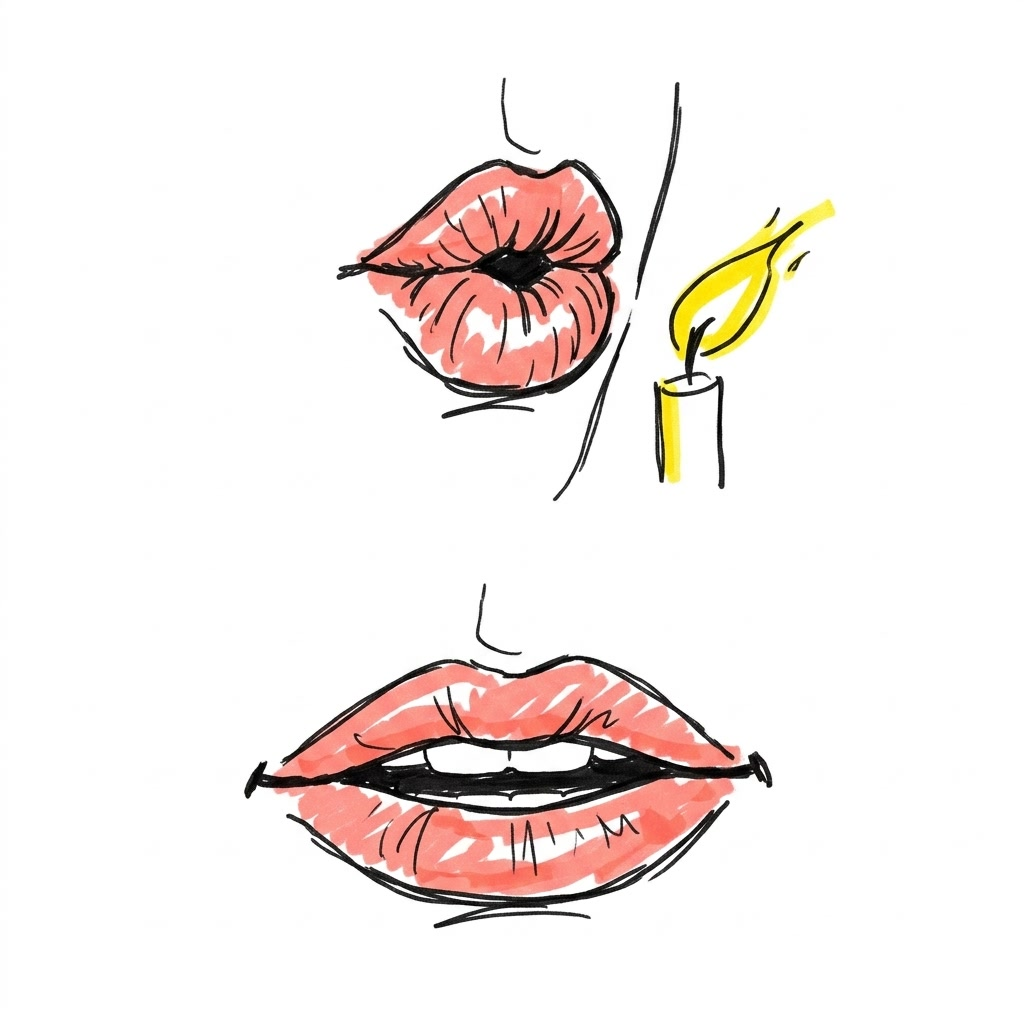
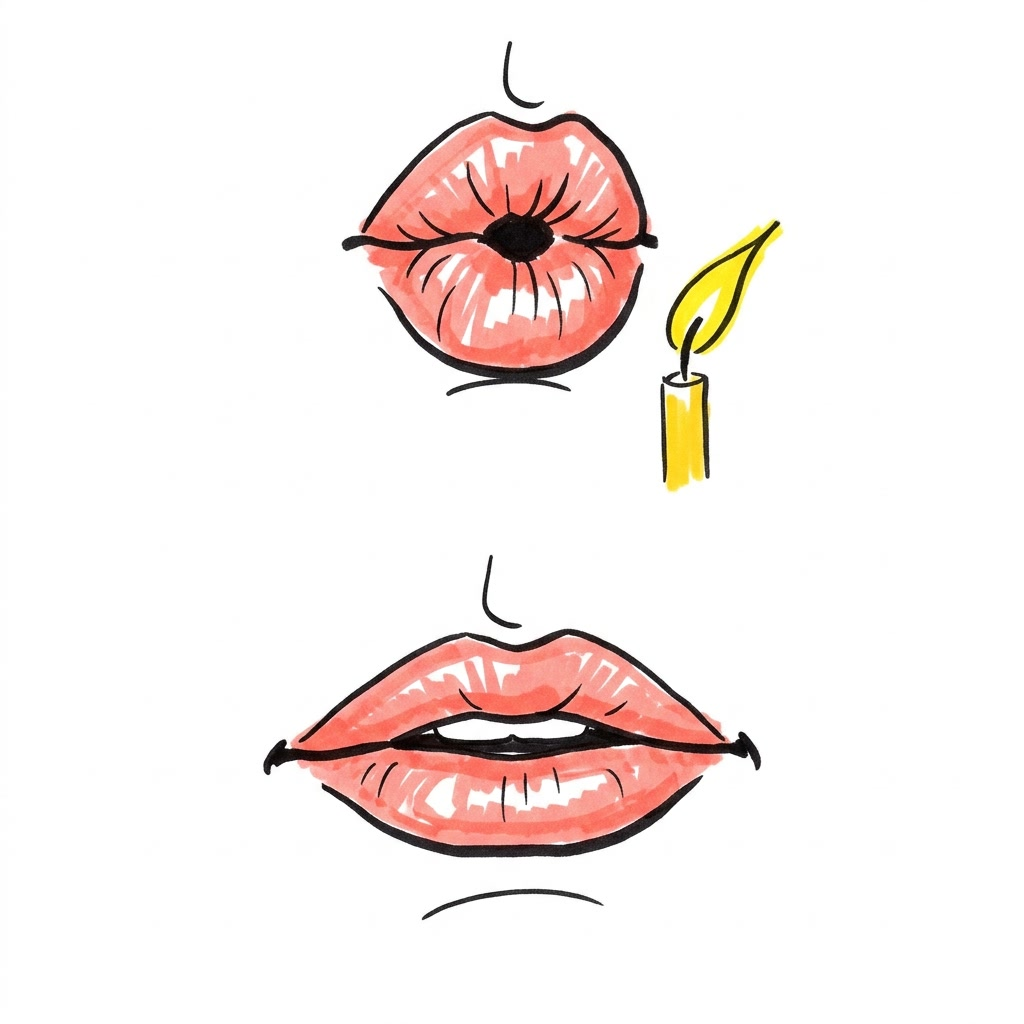
feat(shorts): add EP25 lips v3 and EP25/26 shorts thumbnails
Lips: cheek line gone, lower mouth narrower than before (about 1.5x the
top mouth, asked 1.3x) and clearly different from the rounded top, so it
is used. Thumbnails checked for Korean text (풀 zoomed to confirm the
vowel stem), empty bottom quarter and clean corners; placed as
thumbnail.jpg in each shorts package (no status.json).

diff --git a/knowledge/now.md b/knowledge/now.md
@@ -6,8 +6,7 @@
 
 급한 순서로 적는다. 새 대화의 시작 브리핑에 그대로 나온다. 끝난 항목은 바로 지우고, 새 일이 생기면 여기에 적는다.
 
-- [ ] **사용자 (각 쇼츠 공개 전)**: 쇼츠 썸네일을 Gemini로 만든다(9:16). EP24는 2026-11-08에 만들어 스튜디오에도 올렸다. 남은 것은 EP25·26 2장. 프롬프트는 각 쇼츠 폴더의 `prompts/thumbnail-prompts.md`(추천 1안, 다른 안을 고르면 Claude가 문구를 바꾼다). 다운로드 폴더에 `ep24_shorts_thumbnail.jpg`, `ep25_…`, `ep26_…`로 넣으면 Claude가 확인해 각 쇼츠 패키지의 `thumbnail.jpg`로 넣는다.
-- [ ] **Claude**: EP25·26 쇼츠 화면과 자막을 만들고 검수를 요청한다. 그 전에 사용자가 EP25 입술 그림 `lips_round_relaxed` 1장을 고친 프롬프트로 다시 만든다. EP25 나레이션은 13.30~13.70초와 18.39~18.67초에 대본에 없는 소리가 있어 잘라 낸다. EP25의 fool·full은 여성 음성이다. EP26 그림 두 장은 가운데 선(512px)에 획이 걸쳐 있어 위아래로 자를 때 처리한다.
+- [ ] **Claude**: EP25·26 쇼츠 화면과 자막을 만들고 검수를 요청한다. 그림은 모두 들어왔다(EP25 입술은 2026-11-08 3차본). 쇼츠 썸네일은 각 쇼츠 패키지의 `thumbnail.jpg`에 있으니 스튜디오에서 올릴 때 함께 올린다. EP25 나레이션은 13.30~13.70초와 18.39~18.67초에 대본에 없는 소리가 있어 잘라 낸다. EP25의 fool·full은 여성 음성이다. EP26 그림 두 장은 가운데 선(512px)에 획이 걸쳐 있어 위아래로 자를 때 처리한다.
 - [ ] **사용자 결정**: 11/6에 시작한 프로그램 점검의 "자기 질문과 현실적 해결책" 보고서가 아직 필요한지 정한다. 다른 PC에서 점검 기록과 외부 요청 차단 등이 커밋된 것은 확인했지만, 보고서 자체를 만들었는지는 확인하지 못했다.
 - [ ] **사용자 (11/9 공개 후)**: EP24 고정 댓글을 달고 대시보드에서 "등록함"을 누른다. 그 뒤 EP24 쇼츠의 "관련 동영상"에 EP24 롱폼을 지정한다(스튜디오 세부정보 오른쪽, 이 채널에서 쓸 수 있음을 2026-11-07 화면으로 확인).
 - [ ] **Claude**: EP29 메인(A안)과 변형(B안) 썸네일은 11/07 모델 생성 및 교체 완료. 나머지 2종(C안, 모바일용)은 이미지 쿼터 리셋(20:07경) 후 마저 생성. 대시보드에서 EP29 메인 승인 가능.

diff --git a/videos/ep25-shorts-pool-pull/prompts/visual-prompts.md b/videos/ep25-shorts-pool-pull/prompts/visual-prompts.md
@@ -33,3 +33,4 @@ A square illustration split into two equal halves, one above the other, with no 
 - **저장 위치**: `videos/ep25-shorts-pool-pull/assets/images/lips_round_relaxed.jpg`
 - **시도 기록**: 2026-11-07 팩트 체크로 아래 입 묘사를 고쳤다. 처음 프롬프트는 "not rounded"였는데, pull의 입술은 덜 둥근 것이지 안 둥근 것이 아니다. 그 전 프롬프트로 만든 그림은 다시 만든다. 2026-11-07 사용자 결정으로 그림체를 마커 손그림으로 바꿨다(그림체 문장만 교체, 내용 묘사는 그대로). 이전 그림체로 만든 그림은 다시 만든다.
 - **2차 시도 기록**: 2026-11-07 마커 그림체 1차 그림은 위 칸은 맞았지만 아래 입이 옆으로 넓게 퍼져 EP24 쇼츠의 힘 뺀 입(ship)과 거의 같았다. 사실 확인의 "덜 둥근 것이지 안 둥근 것이 아니다"와 어긋나 아래 입 폭을 위 입의 약 1.3배로 숫자로 못 박았고, 위 칸 입과 촛불 사이에 생긴 볼 선도 막았다.
+- **3차 시도 기록**: 2026-11-08 고친 프롬프트로 다시 받았다. 위 칸 볼 선이 사라졌고, 아래 입은 폭이 위 입의 약 1.5배(요청은 1.3배)로 이전(약 1.6배)보다 조금 좁아졌다. 아래 입이 아직 넓은 편이지만 위(동그랗게 모음)와 아래(힘 뺌)의 차이는 분명해 이 그림을 쓴다. 더 좁히려면 다시 만들어야 한다.

diff --git a/videos/ep26-shorts-right-light/prompts/thumbnail-prompts.md b/videos/ep26-shorts-right-light/prompts/thumbnail-prompts.md
@@ -24,4 +24,4 @@ A vertical YouTube Shorts thumbnail in 9:16 portrait format, 1080 by 1920 pixels
 
 - **받으면 확인할 것**: 한글 글자가 깨지지 않았는지, 신호등이 세 칸이고 초록불만 켜졌는지, 아래 25%가 비었는지.
 - **저장**: 다운로드 폴더에 `ep26_shorts_thumbnail.jpg`로 넣으면 Claude가 EP26 쇼츠 업로드 패키지(`output/upload-packages/ep26-shorts-right-light/thumbnail.jpg`)로 옮긴다.
-- **시도 기록**: 아직 없음
+- **시도 기록**: 2026-11-08 1안 그대로 받아 `output/upload-packages/ep26-shorts-right-light/thumbnail.jpg`에 넣었다(768×1376). 글자 정확, 신호등 세 칸 중 초록만 켜짐, 차가 오른쪽으로 꺾는 화살표 있음, 아래 25% 비어 있음, 네 모서리 로고 없음. 노란 형광펜은 등호 대신 첫 줄 "라이트" 아래에 그어졌다(괜찮음).

diff --git a/videos/ep25-shorts-pool-pull/prompts/thumbnail-prompts.md b/videos/ep25-shorts-pool-pull/prompts/thumbnail-prompts.md
@@ -24,4 +24,4 @@ A vertical YouTube Shorts thumbnail in 9:16 portrait format, 1080 by 1920 pixels
 
 - **받으면 확인할 것**: 한글 글자가 깨지지 않았는지, 손가락이 다섯 개인지, 아래 25%가 비었는지, 문에 글자가 없는지.
 - **저장**: 다운로드 폴더에 `ep25_shorts_thumbnail.jpg`로 넣으면 Claude가 EP25 쇼츠 업로드 패키지(`output/upload-packages/ep25-shorts-pool-pull/thumbnail.jpg`)로 옮긴다.
-- **시도 기록**: 아직 없음
+- **시도 기록**: 2026-11-08 1안 그대로 받아 `output/upload-packages/ep25-shorts-pool-pull/thumbnail.jpg`에 넣었다(768×1376). "넷 다 '풀'?"의 '풀'은 확대해 ㅜ 줄기까지 확인(플 아님), 아래 25% 비어 있음, 네 모서리 로고 없음.
